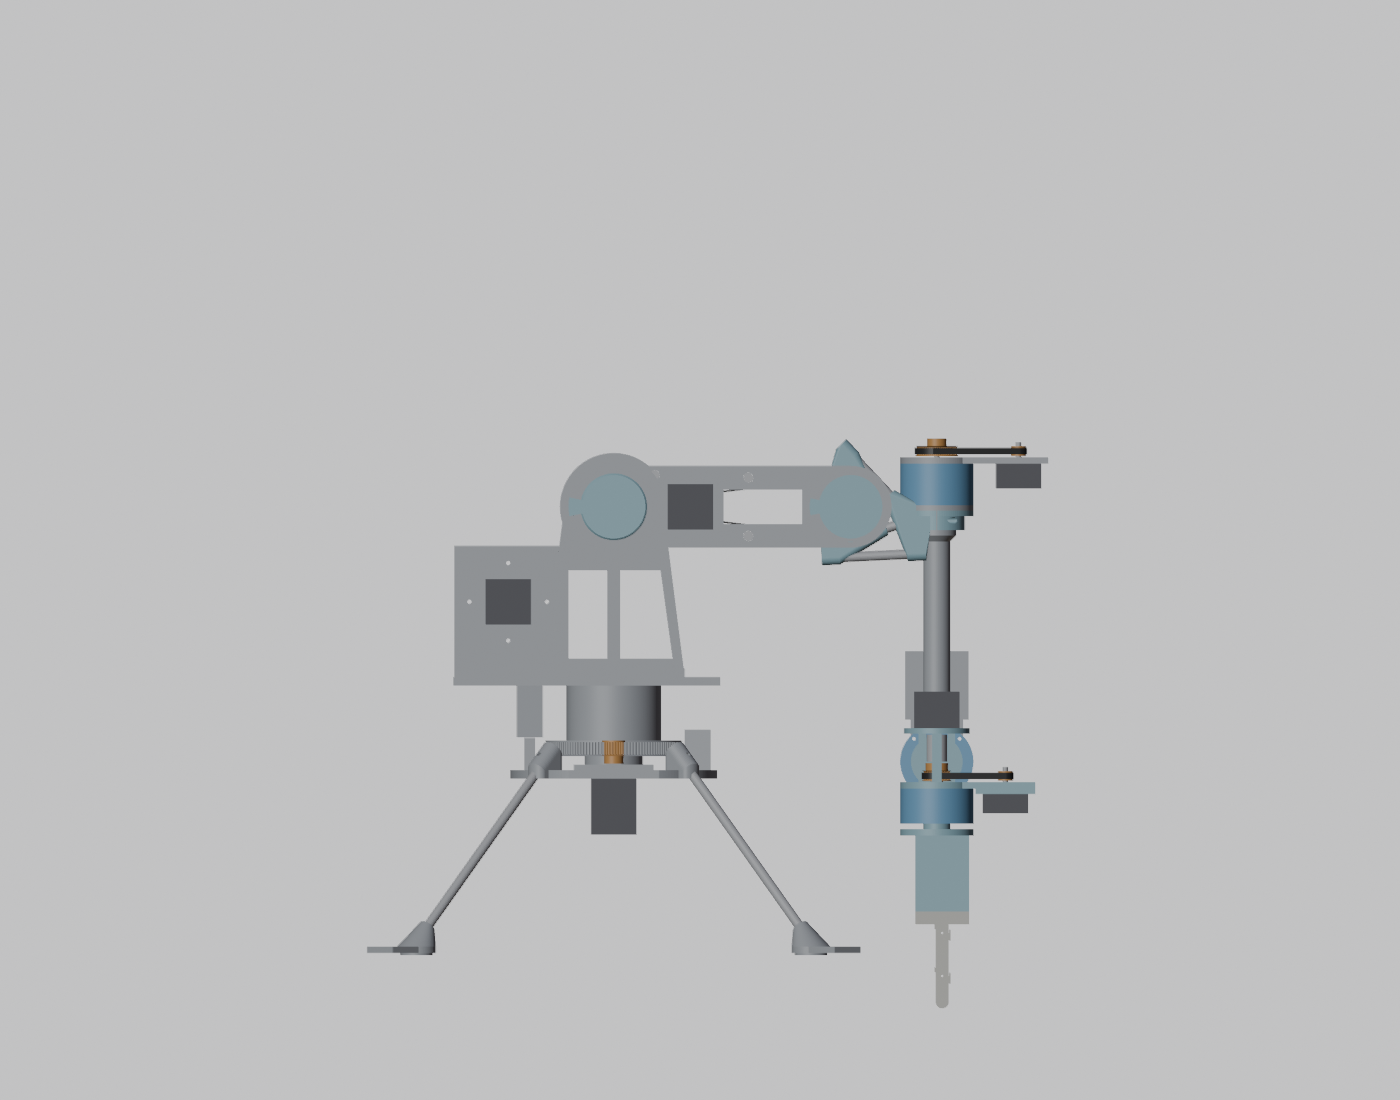
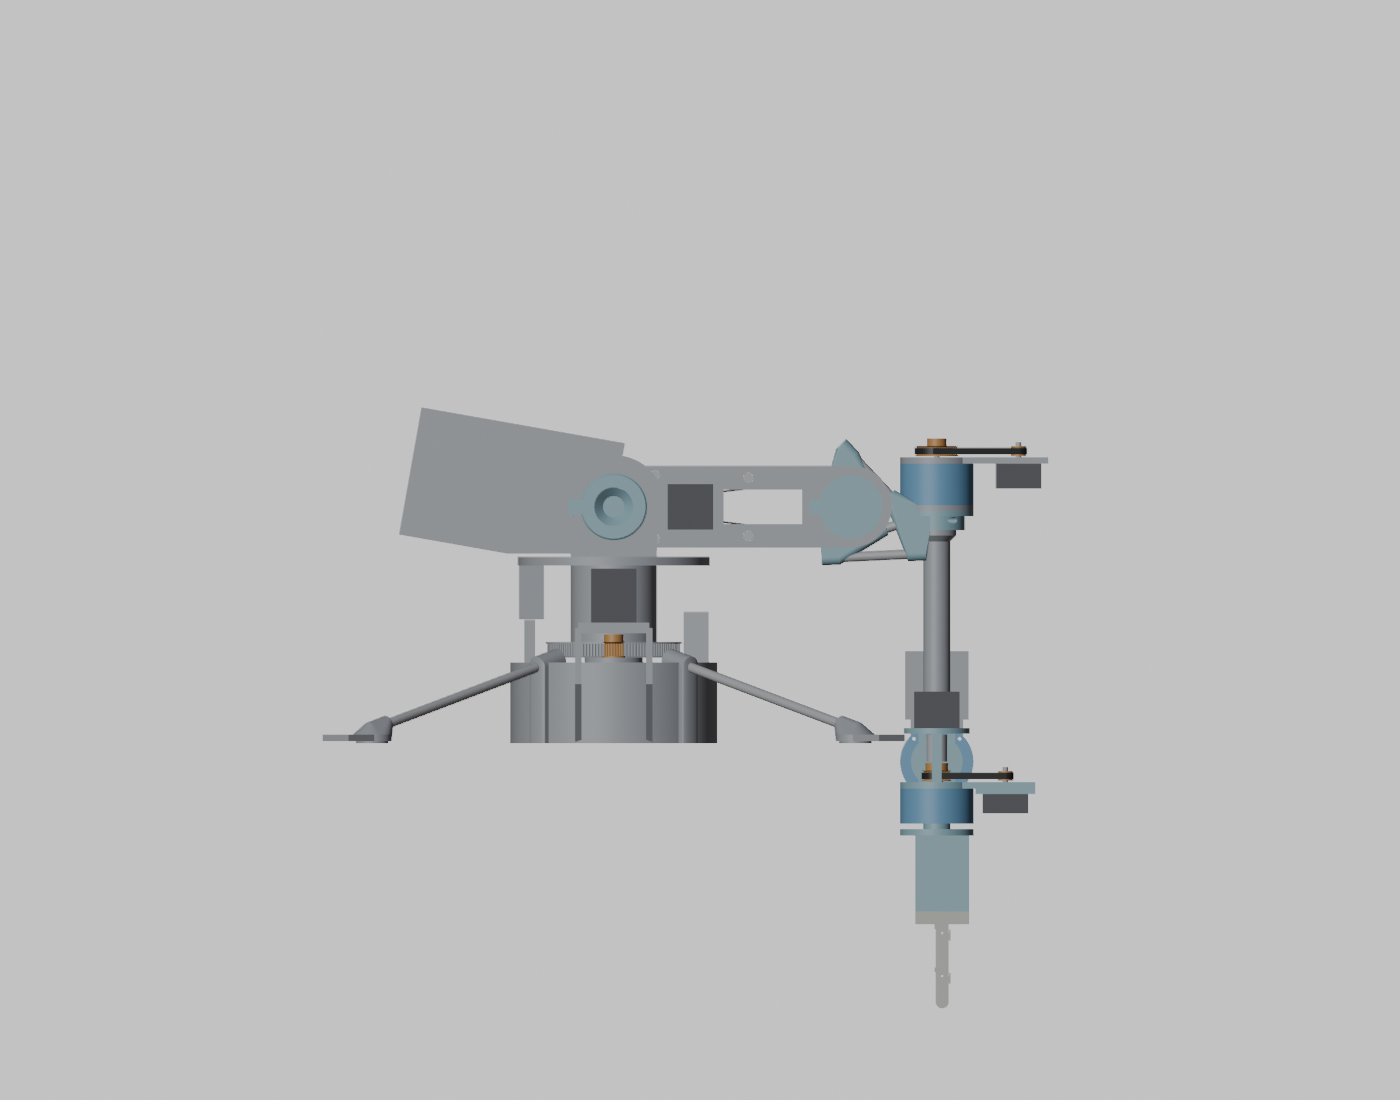
Check the whole arm on the low shoulder: bench reach, soft limits over the base's turn, the capacity count and the current cap
The first build only checked soft limits with the base at 0, missing the legs and the base motor as the base turns. Now they're the union over eight base angles, the tool is shown to reach the bench, and the poses past the shoulder motor's capacity are counted.

Changed region(s): [[0.2457, 0.3709, 0.5836, 0.8655], [0.5529, 0.8036, 0.6143, 0.8655], [0.5836, 0.6491, 0.645, 0.68]]

diff --git a/tools/blender/head_concept.py b/tools/blender/head_concept.py
@@ -667,11 +667,13 @@ def wrist_fixed():
     return objs + [o for o in COLS["Axis 5 belted, 40:1"].objects if not any(p in o.name for p in ("carrier", "disk", "eccentric"))]
 
 
-def merged_tree(objs, m=None):
+def merged_tree(objs, m=None, pre=None):
+    """One BVH tree of objs, each moved by m; pre: {id(o): a matrix applied to that one first}."""
     verts, polys = [], []
     for o in objs:
         base = len(verts)
-        verts += [(m @ v.co) if m else v.co.copy() for v in o.data.vertices]
+        mo = (m or Matrix()) @ pre[id(o)] if pre and id(o) in pre else m
+        verts += [(mo @ v.co) if mo else v.co.copy() for v in o.data.vertices]
         polys += [[base + i for i in p.vertices] for p in o.data.polygons]
     return mathutils.bvhtree.BVHTree.FromPolygons(verts, polys)
 
@@ -717,9 +719,10 @@ def offset_wrist_report(report):
 
 
 SH_COL, BASE_COL = "Shoulder and body", "Base and legs"
-SH_MOVING_STL = ("shoulder-hub-a", "shoulder-hub-b", "shoulder-output-plate", "shoulder-stop-collar")
+SH_MOVING_STL = ("shoulder-hub-b", "shoulder-output-plate", "shoulder-stop-collar")
 SH_SKIP_STL = ("plate-drill-jig", "shoulder-motor-plate-23")      # a drilling tool, and the NEMA23's spare plate
 BASE_STL = ("turntable", "base-ring-130T", "spigot-spacer", "spigot-cap", "fixed-base", "base-motor-plate", "foot", "foot-pad")
+PHI_TURNING_STL = ("turntable", "base-ring-130T")   # base parts that turn with phi; the rest of the base stays with the bench
 SH_AT = ELBOW_AT - Vector((0, 0, E.UPPER_L))   # the shoulder axis; the shoulder frame maps in by translation
 PRINTED_G_MM3 = 1.24e-3 * 0.4                  # PLA at 40% infill
 MOTOR_G, COMPACT_G, PAYLOAD_G, LEG_TUBE_G = 350, 120, 500, 17   # each; the tube is Ø9 x 1 aluminium, 250 long
@@ -757,17 +760,20 @@ def shoulder_body():
             continue
         place(stl(os.path.join(folder, name + ".stl"), "shoulder " + name), col, mat, m @ Matrix(rows))
     cycloid("20-1-compact", "ax2", SH_COL, m @ basis_frame((1, 0, 0), (0, 0, 1), (0, -1, 0), (0, S.COMPACT_REAR_Y, 0)))
-    up = Matrix(((1, 0, 0, 0), (0, 0, -1, 0), (0, 1, 0, 0), (0, 0, 0, 1)))   # a pulley's z onto -y, hub towards the compact
+    up = Matrix(((1, 0, 0, 0), (0, 0, -1, 0), (0, 1, 0, 0), (0, 0, 0, 1)))   # a pulley's z onto -y, hub towards the stub
+    out = Matrix(((1, 0, 0, 0), (0, 0, 1, 0), (0, -1, 0, 0), (0, 0, 0, 1)))  # a pulley's z onto +y, hub towards the motor
     top = S.PULLEY80_Y + E.PULLEY_H
     mx, mz = S.motor_at()
     place(stl(os.path.join(folder, "shoulder-pulley-80T.stl"), "shoulder 80T"), SH_COL, "pulley", m @ Matrix.Translation((0, top, 0)) @ up)
-    place(stl(os.path.join(MODEL, "elbow", "axis3-pulley-20T.stl"), "shoulder 20T"), SH_COL, "pulley", m @ Matrix.Translation((mx, top, mz)) @ up)
+    place(stl(os.path.join(MODEL, "elbow", "axis3-pulley-20T.stl"), "shoulder 20T"), SH_COL, "pulley",
+          m @ Matrix.Translation((mx, S.PULLEY20_HUB_Y[1] - E.PULLEY_H, mz)) @ out)
     h = S.MOTORS["17"]["sq"] / 2
-    place(L.box("shoulder motor 17HS19", mx - h, mx + h, S.SWAP_Y[0] - S.MOTORS["17"]["length"], S.SWAP_Y[0], mz - h, mz + h), SH_COL, "motor", m)
+    local = basis_frame((S.BELT_U[0], 0, S.BELT_U[1]), (S.BELT_W[0], 0, S.BELT_W[1]), (0, 1, 0), (mx, 0, mz))
+    place(L.box("shoulder motor 17HS19", -h, h, -h, h, S.MOTOR_FACE_Y, S.MOTOR_FACE_Y + S.MOTORS["17"]["length"]), SH_COL, "motor", m @ local)
     bx, by = S.base_motor_at()
-    place(L.box("base motor 17HS19", bx - h, bx + h, by - h, by + h, S.BASE_TOP_Z - S.BASE_MOTOR_L, S.BASE_TOP_Z), BASE_COL, "motor", m)
-    zp = S.BASE_TOP_Z + S.BASE_PLATE_T + 1.0
-    place(stl(os.path.join(MODEL, "elbow", "axis3-pulley-20T.stl"), "base 20T"), BASE_COL, "pulley", m @ Matrix.Translation((bx, by, zp + E.PULLEY_H)) @ flip())
+    place(L.box("base motor 17HS19", bx - h, bx + h, by - h, by + h, S.BASE_PLATE_Z[1], S.BASE_PLATE_Z[1] + S.BASE_MOTOR_L), BASE_COL, "motor", m)
+    place(stl(os.path.join(MODEL, "elbow", "axis3-pulley-20T.stl"), "base 20T"), BASE_COL, "pulley",
+          m @ Matrix.Translation((bx, by, S.BASE20_HUB_Z[1] - E.PULLEY_H)))
     for phi in S.LEG_PHI:
         _, s, f = S.leg(phi)
         t = L.cyl_between(f"leg tube {phi:.0f}", s, f, S.TUBE_LEG_R, n=24)
@@ -842,12 +848,21 @@ def np_verts(objs, m=None):
     return pts
 
 
-def soft_limits(fixed, bench_z):
-    """(psi, theta) pairs, 5 degree steps, where the arm meets the body, the base, the legs or the bench; pitch 0."""
+def phi_split():
+    """shoulder_fixed() split into what turns with the base (the body on the turntable) and what stays with the bench."""
+    base = {o.name for o in COLS[BASE_COL].objects}
+    turning = [o for o in shoulder_fixed() if o.name in ["shoulder " + k for k in PHI_TURNING_STL] or o.name not in base]
+    return turning, [o for o in shoulder_fixed() if o not in turning]
+
+
+def soft_limits(turning, still, bench_z, phi):
+    """(psi, theta) pairs, 5 degree steps, where the arm meets the body, the base, the legs or the bench; pitch 0. The
+    base stands at phi: what stays with the bench is turned by -phi about the base axis, into the turntable's frame."""
     import numpy as np
     upper = upper_arm_objs()
     body, rest = past_elbow()
-    fixed_trees = {psi: merged_tree(fixed, shoulder_rot(-psi)) for psi in range(int(S.PSI_RANGE[0]), int(S.PSI_RANGE[1]) + 1, 5)}
+    fixed_trees = {psi: merged_tree(turning + still, shoulder_rot(-psi), {id(o): base_rot(-phi) for o in still})
+                   for psi in range(int(S.PSI_RANGE[0]), int(S.PSI_RANGE[1]) + 1, 5)}
     hits = []
     up_tree = merged_tree(upper)
     up_v = np_verts(upper)
@@ -863,11 +878,34 @@ def soft_limits(fixed, bench_z):
     return hits
 
 
+def bench_reach(fixed, bench_z, tip):
+    """Poses (psi, theta, wrist pitch) that bring the tool's point to the bench (within 2) with nothing of the arm under
+    it or in the body, the base or the legs, at phi 0: the one nearest the base axis."""
+    import numpy as np
+    body, rest = past_elbow()
+    upper = upper_arm_objs()
+    ft = merged_tree(fixed)
+    cands = []
+    for psi in range(int(S.PSI_RANGE[0]), int(S.PSI_RANGE[1]) + 1):
+        for th in range(int(E.RANGE[0]), int(E.RANGE[1]) + 1, 2):
+            for pitch in range(-90, 91, 10):
+                p = shoulder_rot(psi) @ elbow_rot(th) @ pitch_matrix(pitch) @ tip
+                if p.z <= bench_z + 2.0:
+                    cands.append((math.hypot(p.x - SH_AT.x, p.y - SH_AT.y), psi, th, pitch, p.z))
+    for r, psi, th, pitch, z in sorted(cands):
+        sm, em, pm = shoulder_rot(psi), elbow_rot(th), pitch_matrix(pitch)
+        arm = np.vstack([np_verts(body, sm @ em @ pm), np_verts(rest, sm @ em), np_verts(upper, sm)])
+        if arm[:, 2].min() < bench_z - 1.0:
+            continue
+        if ft.overlap(merged_tree(body, sm @ em @ pm)) or ft.overlap(merged_tree(rest, sm @ em)) or ft.overlap(merged_tree(upper, sm)):
+            continue
+        return {"reaches": True, "closest_r_mm": round(r, 1), "pose": [psi, th, pitch], "tip_above_bench_mm": round(z - bench_z, 2), "candidates": len(cands)}
+    return {"reaches": False, "closest_r_mm": None, "pose": None, "candidates": len(cands)}
+
+
 def tip_margin(groups, upper, tip, sweep):
     """Least distance from the whole arm's centre of mass, projected, to the pad square's edges, at the longest reaches."""
-    turning = [o for o in shoulder_fixed() if not o.name.startswith(("shoulder fixed-base", "shoulder base-motor-plate", "base ", "foot", "leg tube",
-                                                                        "shoulder spigot"))]
-    still = [o for o in shoulder_fixed() if o not in turning]
+    turning, still = phi_split()
     turn_g = [(centre([o]), printed_g([o])) for o in turning if o.name.startswith("shoulder ") and "motor 17HS19" not in o.name and "80T" not in o.name]
     turn_g += [(centre([obj("shoulder motor 17HS19")]), MOTOR_G), (centre([o for o in COLS[SH_COL].objects if o.name.startswith("ax2 housing")]), COMPACT_G)]
     turn_g += [(centre([obj("shoulder 80T")]), printed_g([obj("shoulder 80T")]))]
@@ -892,6 +930,7 @@ def tip_margin(groups, upper, tip, sweep):
 
 def shoulder_report(report):
     fixed = shoulder_fixed()
+    turning, still = phi_split()
     body, rest = past_elbow()
     ft = merged_tree(fixed)
     home = []
@@ -914,29 +953,33 @@ def shoulder_report(report):
     head = [(c, g, pitches) for n, (c, g, pitches) in named if n != "Three-finger hand"]
     scale = USER_HEAD_G / sum(g for _, g, _ in head)
     demo = 9.81 * (sum(g * scale * (c.x - ELBOW_AT.x) for c, g, _ in head) + WRIST_TEST_G * (PITCH_X - ELBOW_AT.x)) * 1e-6
-    capacity = demo * S.SHOULDER_RATIO / 60
+    capacity = min(demo * S.SHOULDER_RATIO / 60, S.SHOULDER_DESIGN_NMM / 1000)   # the driver's current cap holds it to 13.5
     margin = capacity / t
+    over = [q for q in poses if shoulder_torque(*q, groups, upper, tip) > capacity]
+    over_worst = max(over, key=lambda q: shoulder_torque(*q, groups, upper, tip)) if over else None
     bench = SH_AT.z + S.FOOT_PAD_Z
-    limits = soft_limits(fixed, bench)
+    phis = sorted(set(list(range(0, 360, 45)) + [int(S.BASE_MOTOR_DEG) % 360]))
+    per_phi = {phi: soft_limits(turning, still, bench, phi) for phi in phis}
+    union = sorted({tuple(h) for hs in per_phi.values() for h in hs})
+    limits0 = per_phi[0]
+    assert {tuple(h) for h in limits0} <= set(union), "the soft limits over phi miss phi 0's"
+    reach = bench_reach(fixed, bench, tip)
+    assert reach["reaches"], ("the tool can't reach the bench", reach)
     tip_mm, tip_at = tip_margin(groups, upper, tip, sweep)
-    report.update({"shoulder_at": [round(c, 1) for c in SH_AT], "shoulder_home_sweep_clash": home, "upper_arm_hits_body": bool(upper_hit),
+    report.update({"shoulder_at": [round(c, 1) for c in SH_AT], "shoulder_home_clashes": home, "upper_arm_hits_body": bool(upper_hit),
                    "plate_mass_g": round(upper[0][1]), "shoulder_torque_worst_nm": round(t, 2), "shoulder_worst_pose_psi_theta_pitch": list(worst),
                    "elbow_demo_nm": round(demo, 2), "shoulder_capacity_nm": round(capacity, 2), "shoulder_margin": round(margin, 2),
-                   "shoulder_soft_limits": limits, "tip_margin_mm": round(tip_mm, 1), "tip_worst": tip_at,
-                   "shoulder_design_check": round(t * 1.5, 2) <= S.SHOULDER_DESIGN_NMM / 1000})
+                   "shoulder_over_capacity": {"count": len(over), "of": len(poses), "worst": list(over_worst) if over_worst else None},
+                   "shoulder_current_cap_a": round(S.SHOULDER_CURRENT_CAP_A, 3), "psi_range": list(S.PSI_RANGE),
+                   "shoulder_soft_limits": [list(h) for h in union], "shoulder_soft_limits_phi0": limits0,
+                   "shoulder_soft_limits_by_phi": {str(k): len(v) for k, v in per_phi.items()}, "bench_reach": reach,
+                   "bench_z": round(bench, 1), "tip_margin_mm": round(tip_mm, 1), "tip_worst": tip_at})
+    assert report["shoulder_current_cap_a"] == round(S.SHOULDER_CURRENT_CAP_A, 3)
     if margin < 1.2:
         report["shoulder_note"] = "shoulder: bench test at higher current, NEMA23 plate ready"
     if tip_mm < 15:
         # The user accepted clamped feet as the stability answer (2026-11-20), so tipping unclamped is reported, not asserted.
         report["tip_note"] = "clamp the feet"
-    if home:
-        th, pitch = home[0]
-        em = elbow_rot(th)
-        pairs = [(o.name, f.name) for f in fixed for o in body + rest
-                 if merged_tree([f]).overlap(merged_tree([o], em @ (pitch_matrix(pitch) if o in body else Matrix())))]
-        low = min(min((em @ (pitch_matrix(pitch) if o in body else Matrix()) @ v.co).z for v in o.data.vertices) for o in body + rest)
-        assert False, ("the forearm or head hits the body with the upper arm straight up", home, pairs[:8],
-                       "lowest above the turntable", round(low - (SH_AT.z + S.TURNTABLE_Z), 1))
     if upper_hit:
         pairs = [(o.name, f.name) for o in upper_arm_objs() for f in fixed if merged_tree([o]).overlap(merged_tree([f]))]
         assert False, ("the upper arm hits the body at home", pairs[:12])

diff --git a/tools/blender/shoulder_dims.py b/tools/blender/shoulder_dims.py
@@ -15,7 +15,8 @@ B6810 = E.B6810
 M3_CLEAR_R, M3_INSERT_R, M3_INSERT_DEPTH, M5_CLEAR_R = 1.7, 2.0, 5.0, 2.75
 NUT_AF, NUT_T = 5.8, 2.6
 M3_STOCK = (40, 45, 50)
-SHOULDER_DESIGN_NMM = 13.5e3                 # 1.5x the spec's 9 N·m estimate; Task 6 replaces the estimate with the model's
+SHOULDER_DESIGN_NMM = 13.5e3                 # 1.5x the spec's 9 N·m estimate; the hub lock, the output link and the stops
+SHOULDER_CURRENT_CAP_A = 2.0 * 13.5 / (0.59 * 80)   # the driver's cap so a stall can't pass 13.5 N·m (17HS19: 0.59 N·m at 2.0 A, 80:1)
 PRINTED_MPA = 10.0
 
 # The stub-mount compact (cycloid_poc.py -- --stub-mount): M3 inserts in the rear housing's face, between its R30
